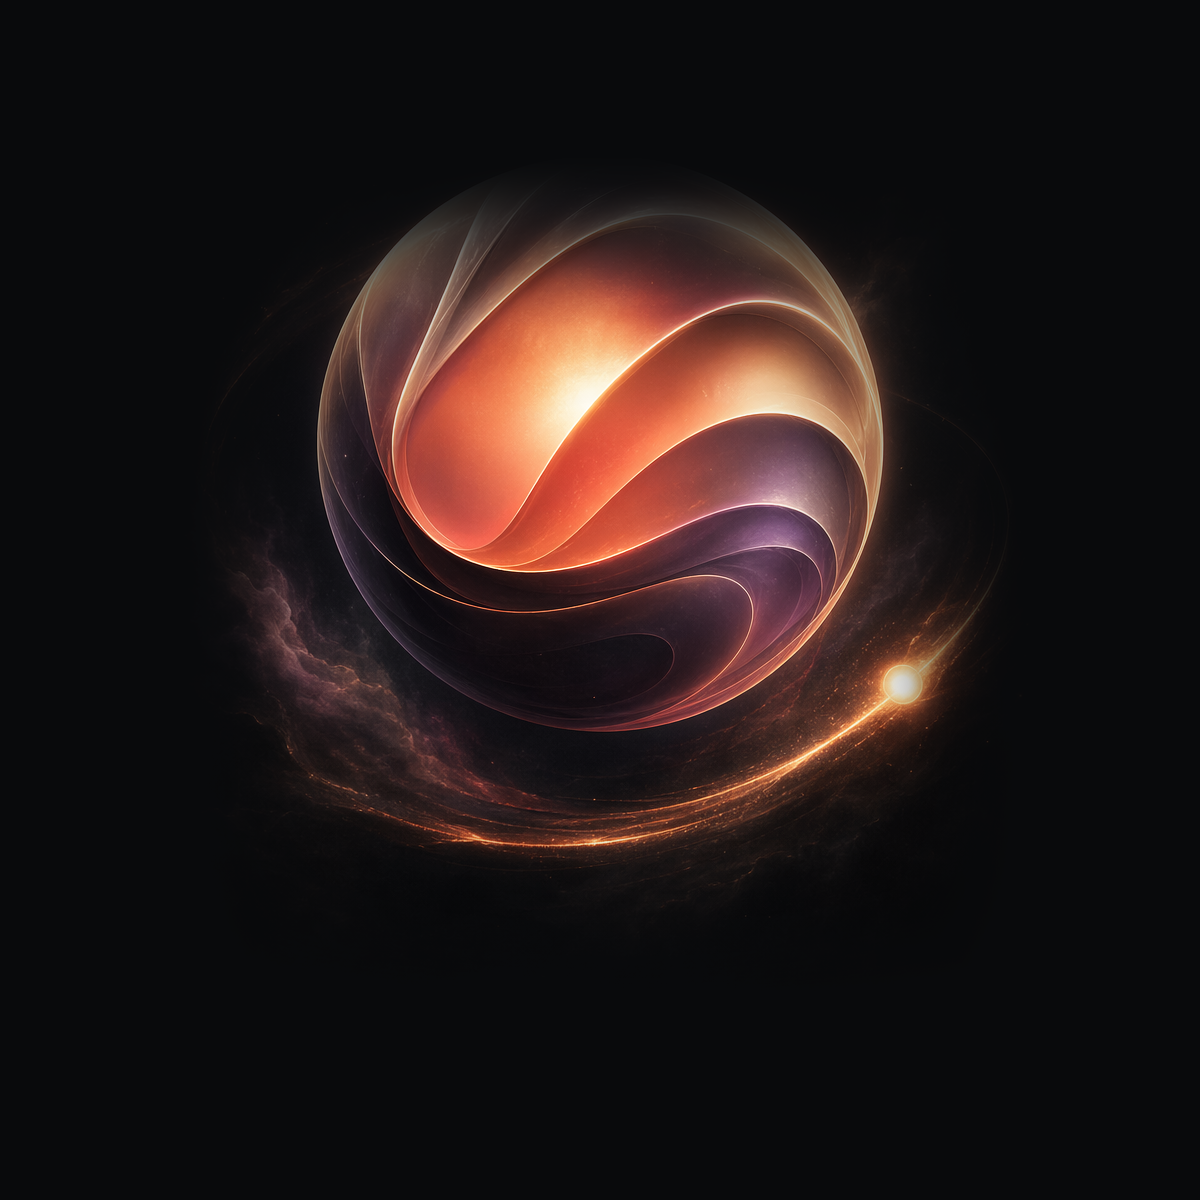
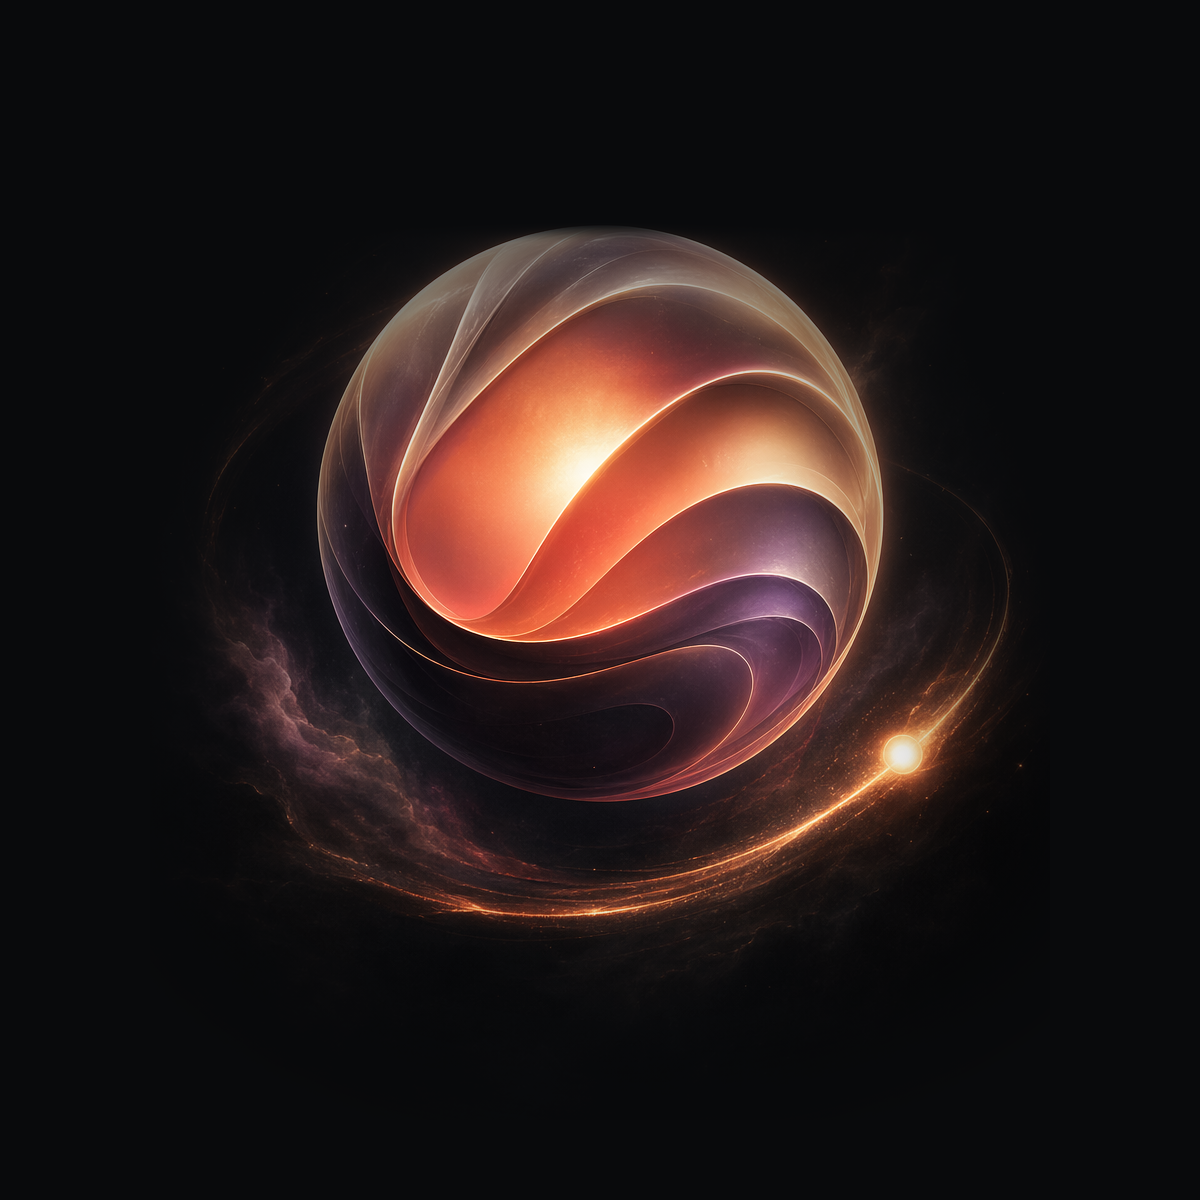
Reveal full landing hero orb

Changed region(s): [[0.185, 0.1542, 0.8325, 0.8017]]

diff --git a/packages/nextjs/components/home/PosterOrbScene.tsx b/packages/nextjs/components/home/PosterOrbScene.tsx
@@ -21,7 +21,7 @@ export function PosterOrbScene({
 
       <style jsx>{`
         .poster-orb-scene {
-          --poster-orb-scene-y: 6%;
+          --poster-orb-scene-y: 12%;
           --poster-orb-scene-scale: 0.98;
 
           position: relative;
